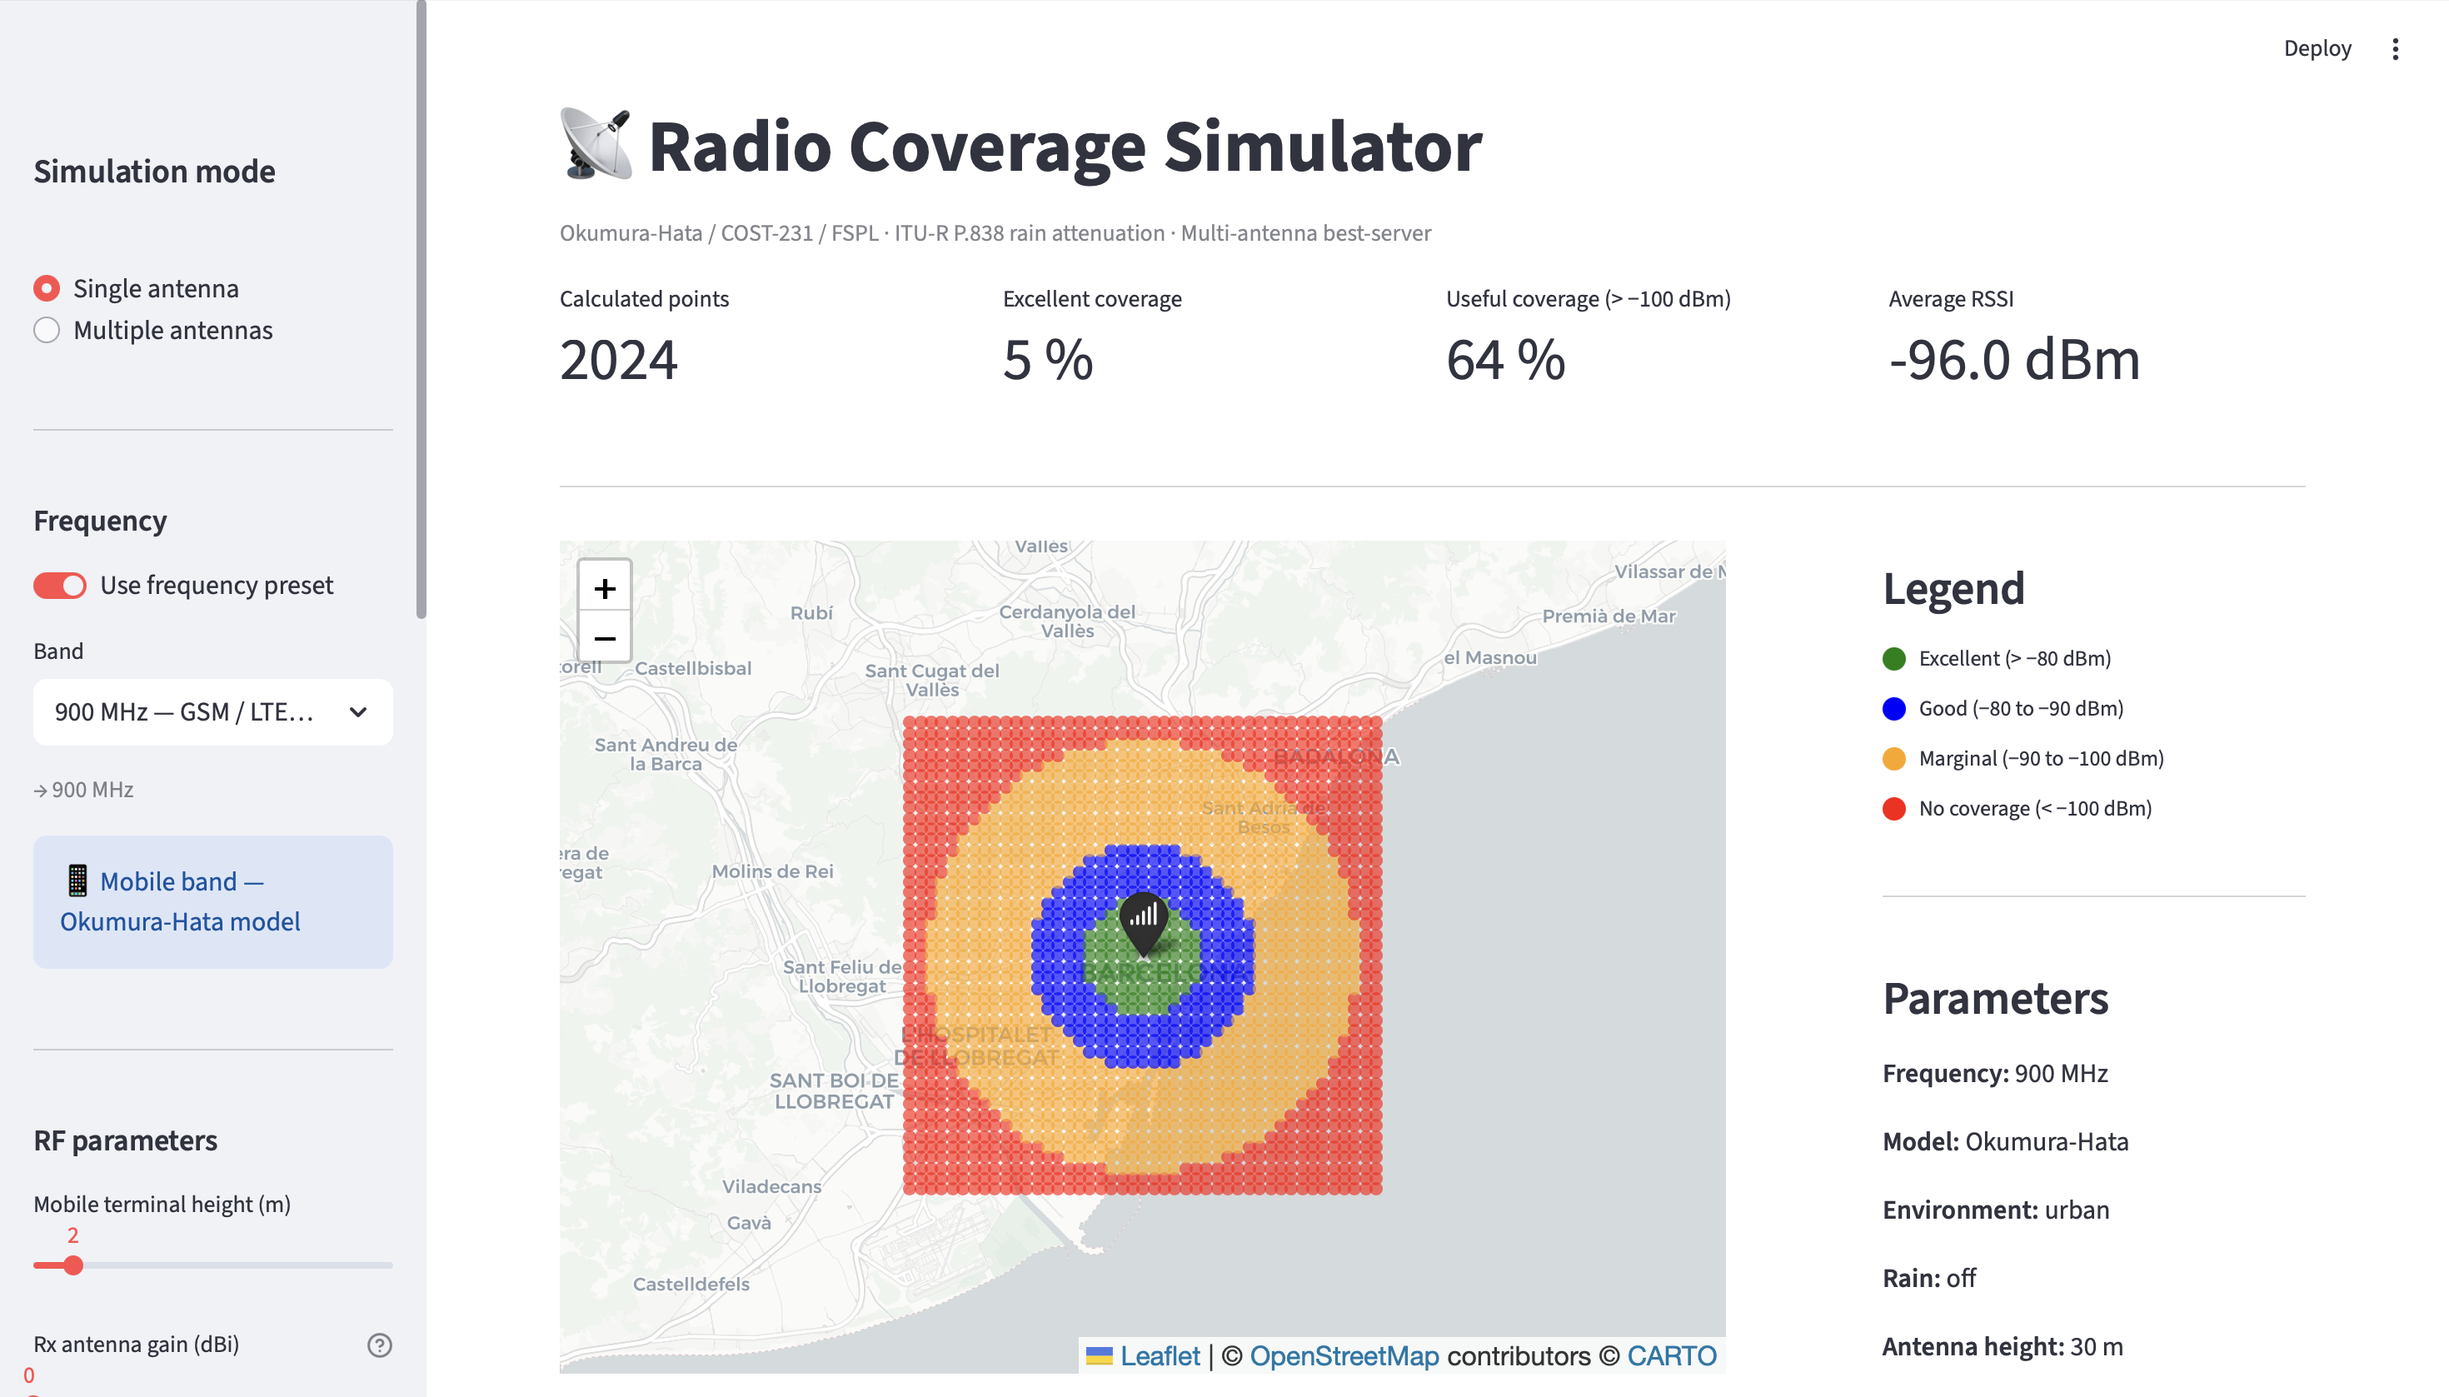
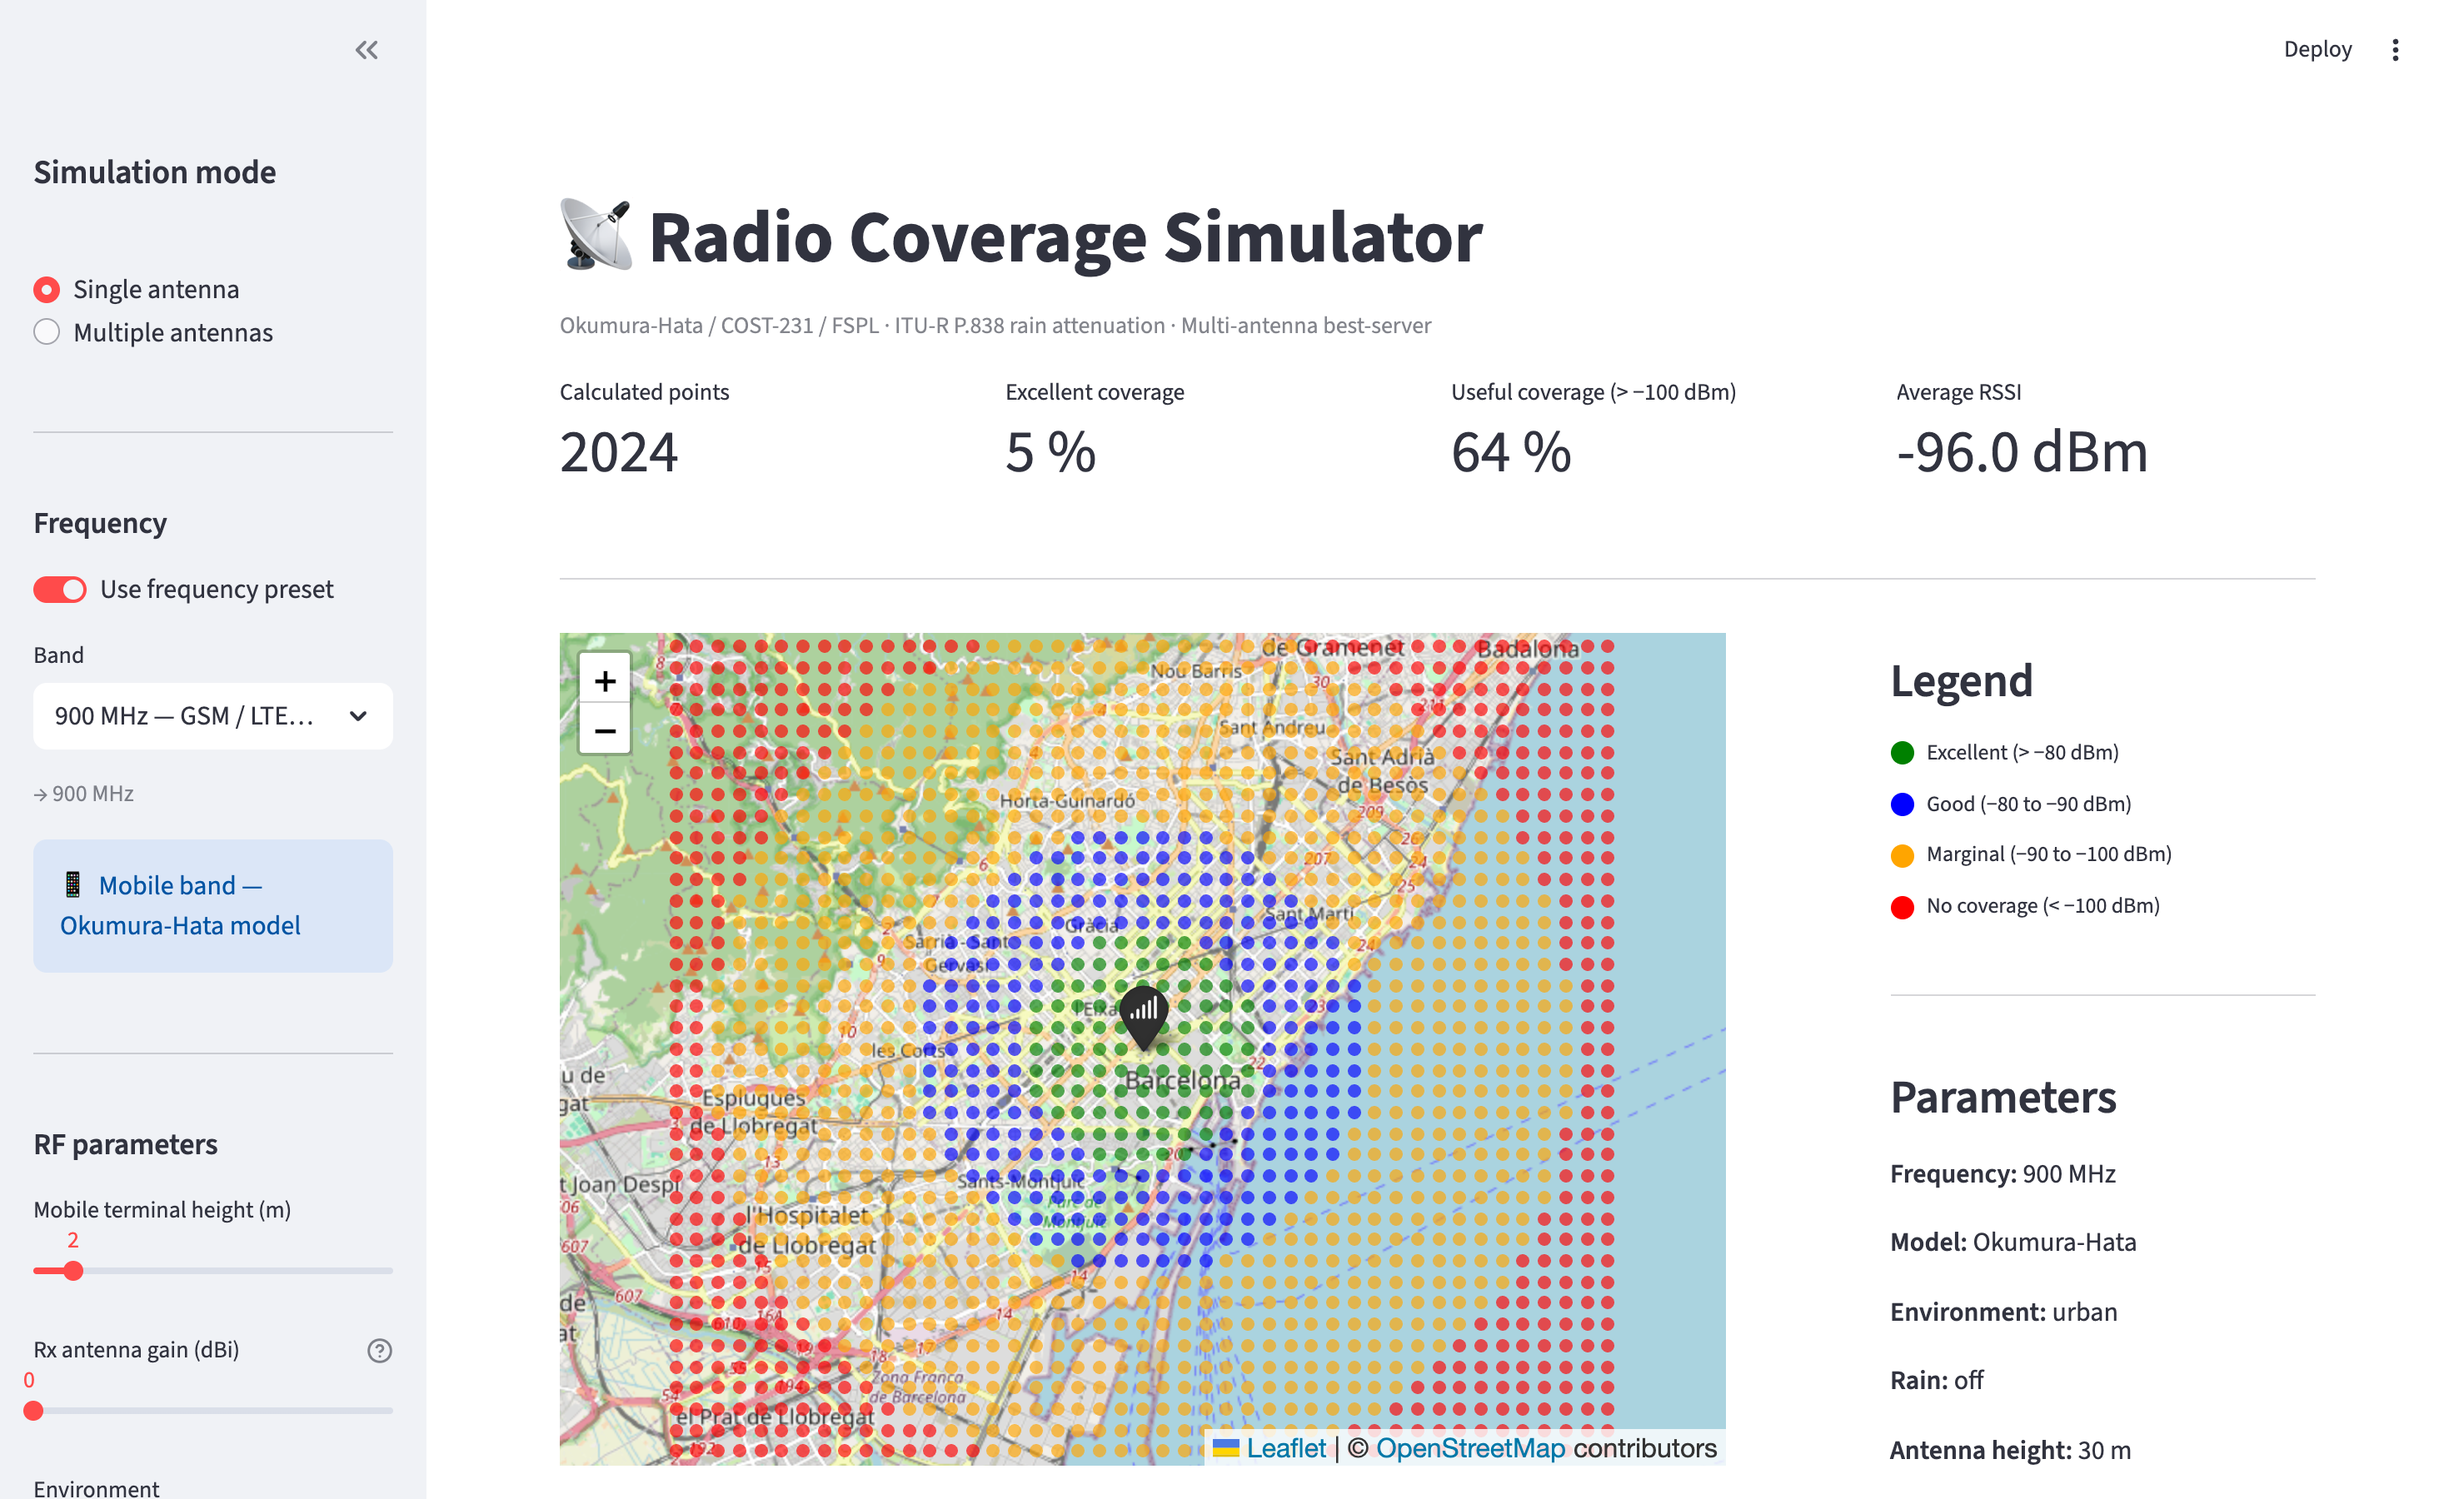
Add live demo link and updated screenshot to README

diff --git a/README.md b/README.md
@@ -4,6 +4,10 @@ Interactive tool to simulate and visualize radio coverage of base stations on a 
 
 Built as a portfolio project during a BSc in Telecommunications Systems Engineering (ETSETB – UPC)
 
+**Live demo:** https://radio-simulator.streamlit.app
+
+![Demo](assets/demo.png)
+
 ---
 
 ## Features
